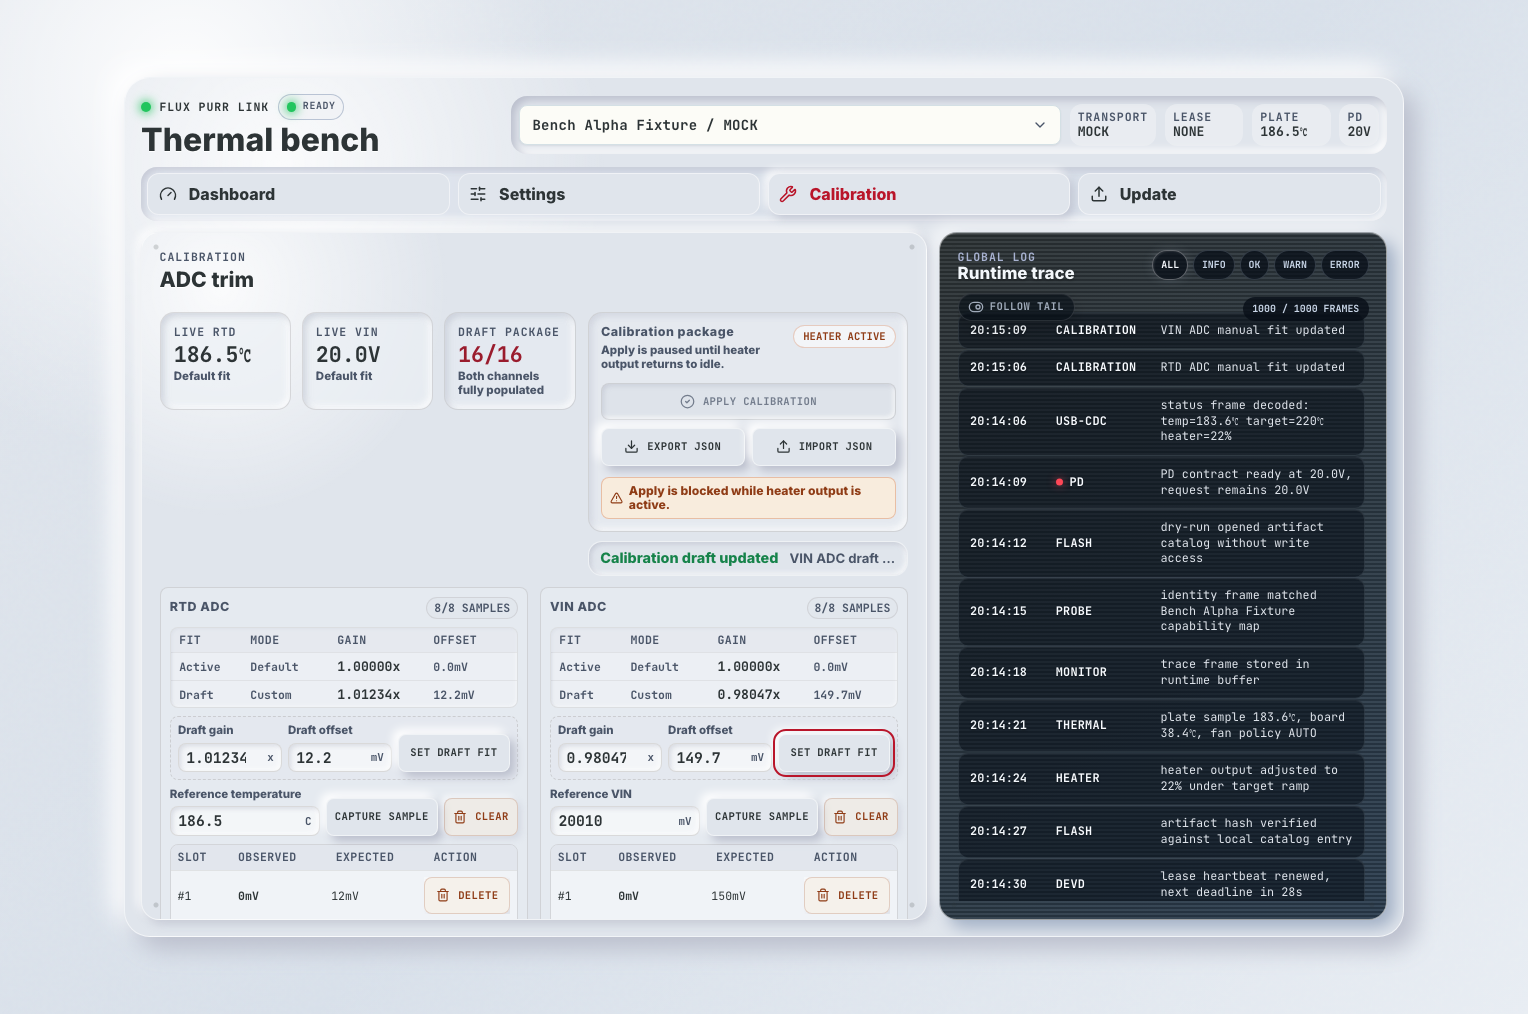
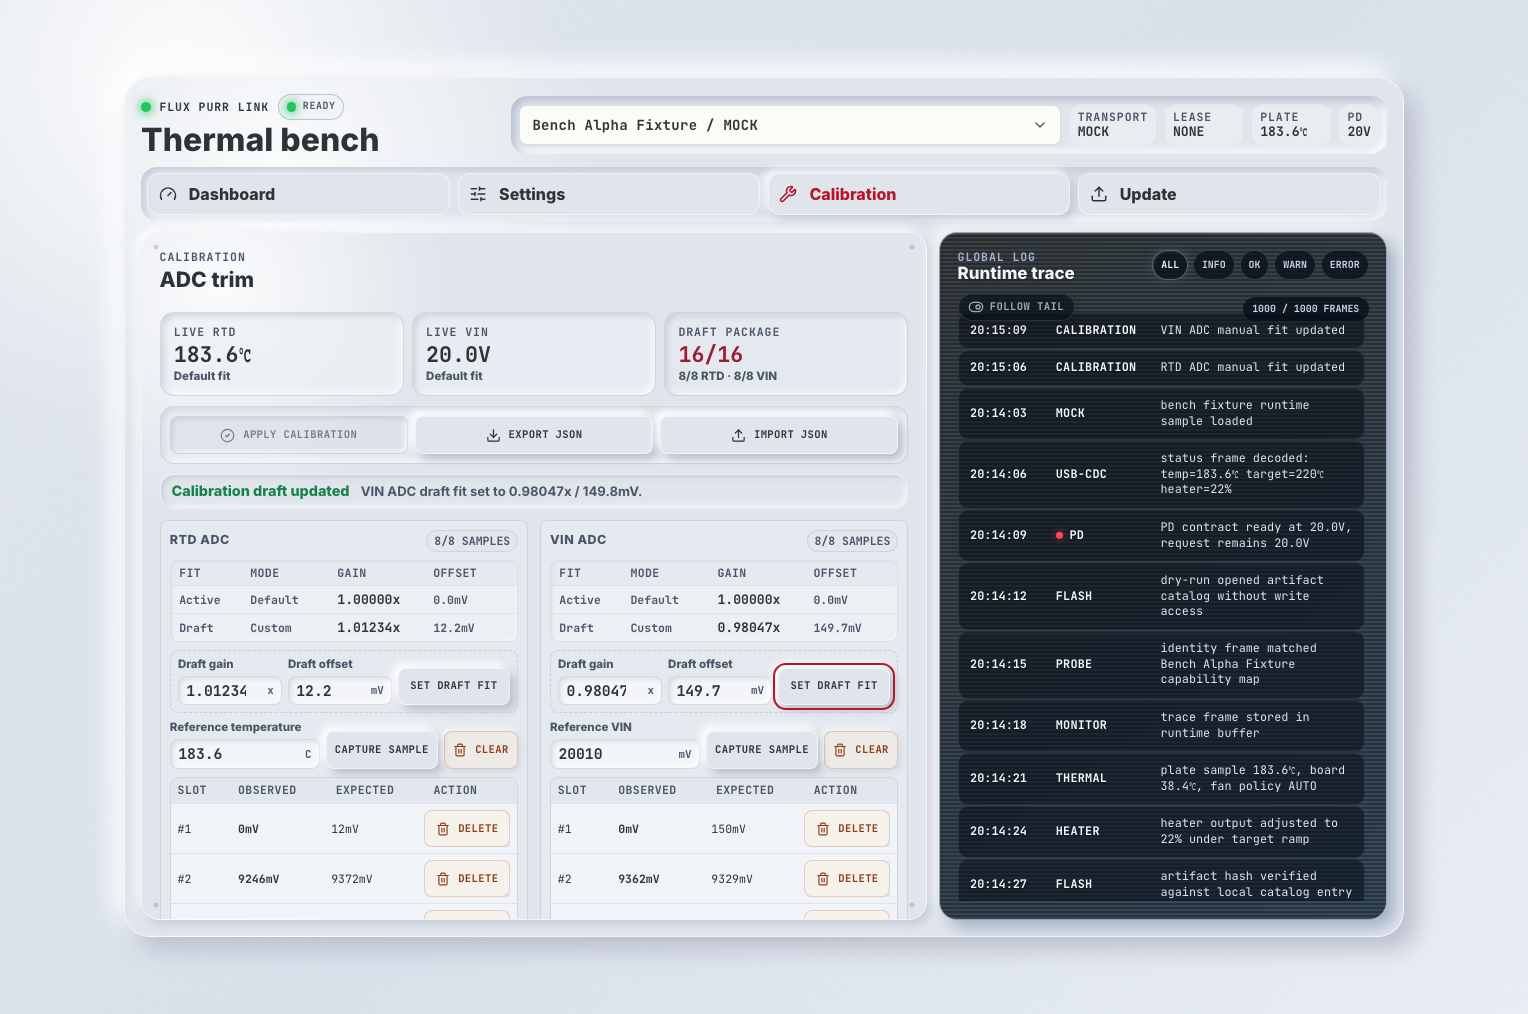
fix: rebalance calibration control layout

diff --git a/web/src/features/control-plane-demo/components/control-plane-demo.tsx b/web/src/features/control-plane-demo/components/control-plane-demo.tsx
@@ -2896,18 +2896,13 @@ function CalibrationView({
   const rtdSampleCount = calibration.draft.rtdAdc.filter(Boolean).length
   const vinSampleCount = calibration.draft.vinAdc.filter(Boolean).length
   const draftSampleCount = rtdSampleCount + vinSampleCount
-  const draftPackageDetail =
-    draftSampleCount === 0
-      ? 'No draft samples loaded'
-      : draftSampleCount === 16
-        ? 'Both channels fully populated'
-        : `${rtdSampleCount}/8 RTD, ${vinSampleCount}/8 VIN`
+  const draftPackageDetail = `${rtdSampleCount}/8 RTD · ${vinSampleCount}/8 VIN`
   return (
     <div className="industrial-view-panel">
       <PanelHeader kicker="Calibration" title="ADC trim" />
       <div className="industrial-calibration-workbench">
         <section className="industrial-calibration-topbar" aria-label="Calibration package">
-          <div className="industrial-calibration-summary">
+          <div className="industrial-calibration-summary industrial-calibration-summary--topbar">
             <CalibrationSummaryCard
               label="Live RTD"
               value={formatTemp(device.currentTempC)}
@@ -2925,66 +2920,41 @@ function CalibrationView({
               tone={draftSampleCount === 0 ? 'muted' : 'accent'}
             />
           </div>
-          <div className="industrial-calibration-control-stack">
-            <div className="industrial-calibration-package">
-              <div className="industrial-calibration-package__header">
-                <div className="industrial-calibration-package__status">
-                  <h3 className="industrial-section-title">Calibration package</h3>
-                  <small>
-                    {applyBlocked
-                      ? 'Apply is paused until heater output returns to idle.'
-                      : 'Apply promotes the current draft package to active calibration.'}
-                  </small>
-                </div>
-                <span
-                  className={`industrial-calibration-package__stamp ${applyBlocked ? 'is-blocked' : 'is-ready'}`}
-                >
-                  {applyBlocked ? 'Heater active' : 'Heater idle'}
-                </span>
-              </div>
-              <div className="industrial-calibration-actions">
-                <button
-                  type="button"
-                  className="industrial-button industrial-button--primary"
-                  disabled={applyBlocked}
-                  onClick={onApply}
-                >
-                  <CheckCircle2 size={15} aria-hidden="true" />
-                  Apply calibration
-                </button>
-                <button
-                  type="button"
-                  className="industrial-button industrial-button--secondary"
-                  onClick={exportCalibration}
-                >
-                  <Download size={15} aria-hidden="true" />
-                  Export JSON
-                </button>
-                <button
-                  type="button"
-                  className="industrial-button industrial-button--secondary"
-                  onClick={() => fileInputRef.current?.click()}
-                >
-                  <Upload size={15} aria-hidden="true" />
-                  Import JSON
-                </button>
-              </div>
-              <input
-                ref={fileInputRef}
-                type="file"
-                accept="application/json,.json"
-                hidden
-                onChange={(event) => void importFile(event.currentTarget.files?.[0] ?? null)}
-              />
-              {applyBlocked ? (
-                <p className="industrial-calibration-warning">
-                  <AlertTriangle size={14} aria-hidden="true" />
-                  <span>Apply is blocked while heater output is active.</span>
-                </p>
-              ) : null}
-            </div>
-            <ActionFeedbackPanel feedback={feedback} compact />
+          <div className="industrial-calibration-command-bar">
+            <button
+              type="button"
+              className="industrial-button industrial-button--primary industrial-calibration-command-bar__apply"
+              disabled={applyBlocked}
+              onClick={onApply}
+            >
+              <CheckCircle2 size={15} aria-hidden="true" />
+              Apply calibration
+            </button>
+            <button
+              type="button"
+              className="industrial-button industrial-button--secondary industrial-calibration-command-bar__action"
+              onClick={exportCalibration}
+            >
+              <Download size={15} aria-hidden="true" />
+              Export JSON
+            </button>
+            <button
+              type="button"
+              className="industrial-button industrial-button--secondary industrial-calibration-command-bar__action"
+              onClick={() => fileInputRef.current?.click()}
+            >
+              <Upload size={15} aria-hidden="true" />
+              Import JSON
+            </button>
+            <input
+              ref={fileInputRef}
+              type="file"
+              accept="application/json,.json"
+              hidden
+              onChange={(event) => void importFile(event.currentTarget.files?.[0] ?? null)}
+            />
           </div>
+          <ActionFeedbackPanel feedback={feedback} compact />
         </section>
         <div className="industrial-calibration-grid">
           <CalibrationChannelPanel

diff --git a/web/src/index.css b/web/src/index.css
@@ -4054,15 +4054,19 @@
 
   .industrial-calibration-topbar {
     display: grid;
-    gap: 0.8rem;
+    gap: 0.62rem;
     align-items: start;
   }
 
   .industrial-calibration-summary {
     display: grid;
     grid-template-columns: repeat(3, minmax(0, 1fr));
-    gap: 0.65rem;
+    gap: 0.52rem;
     min-width: 0;
+  }
+
+  .industrial-calibration-summary--topbar {
+    grid-template-columns: repeat(3, minmax(0, 1fr));
   }
 
   .industrial-calibration-summary-card {
@@ -4125,15 +4129,11 @@
     color: rgba(74, 85, 104, 0.82);
   }
 
-  .industrial-calibration-control-stack {
+  .industrial-calibration-command-bar {
     display: grid;
-    gap: 0.55rem;
-    min-width: 0;
-  }
-
-  .industrial-calibration-package {
-    display: grid;
-    gap: 0.72rem;
+    grid-template-columns: repeat(3, minmax(0, 1fr));
+    gap: 0.44rem;
+    align-items: stretch;
     min-width: 0;
     border: 1px solid rgba(80, 67, 58, 0.14);
     border-radius: 14px;
@@ -4141,56 +4141,11 @@
     box-shadow:
       inset 3px 3px 6px rgba(186, 190, 204, 0.48),
       inset -3px -3px 6px rgba(255, 255, 255, 0.76);
-    padding: 0.72rem;
+    padding: 0.56rem;
   }
 
-  .industrial-calibration-package__header {
-    display: flex;
-    align-items: start;
-    justify-content: space-between;
-    gap: 0.75rem;
-    min-width: 0;
-  }
-
-  .industrial-calibration-package__status {
-    display: grid;
-    gap: 0.24rem;
-    min-width: 0;
-  }
-
-  .industrial-calibration-package__stamp {
-    flex: 0 0 auto;
-    align-self: start;
-    border: 1px solid rgba(80, 67, 58, 0.16);
-    border-radius: 999px;
-    background: rgba(248, 249, 251, 0.74);
-    padding: 0.34rem 0.58rem;
-    color: var(--industrial-muted-text);
-    font-family: "JetBrains Mono", monospace;
-    font-size: 0.66rem;
-    font-weight: 850;
-    line-height: 1;
-    text-transform: uppercase;
-  }
-
-  .industrial-calibration-package__stamp.is-ready {
-    border-color: rgba(51, 121, 84, 0.24);
-    color: #1f6b4a;
-  }
-
-  .industrial-calibration-package__stamp.is-blocked {
-    border-color: rgba(199, 93, 44, 0.28);
-    color: #8f3c16;
-  }
-
-  .industrial-calibration-actions {
-    display: grid;
-    grid-template-columns: repeat(2, minmax(0, 1fr));
-    gap: 0.48rem;
-    min-width: 0;
-  }
-
-  .industrial-calibration-actions .industrial-button,
+  .industrial-calibration-command-bar__apply,
+  .industrial-calibration-command-bar__action,
   .industrial-calibration-capture-row .industrial-button,
   .industrial-calibration-manual-fit .industrial-button,
   .industrial-calibration-samples .industrial-button {
@@ -4201,15 +4156,12 @@
     letter-spacing: 0.035em;
   }
 
-  .industrial-calibration-actions .industrial-button {
+  .industrial-calibration-command-bar__apply,
+  .industrial-calibration-command-bar__action {
     width: 100%;
   }
 
-  .industrial-calibration-actions .industrial-button:first-child {
-    grid-column: 1 / -1;
-  }
-
-  .industrial-calibration-actions .industrial-button:disabled {
+  .industrial-calibration-command-bar__apply:disabled {
     border-color: rgba(80, 67, 58, 0.12);
     background: rgba(219, 224, 232, 0.72);
     color: rgba(74, 85, 104, 0.72);
@@ -4542,8 +4494,8 @@
   }
 
   @media (min-width: 960px) {
-    .industrial-calibration-topbar {
-      grid-template-columns: minmax(0, 1.3fr) minmax(20rem, 0.92fr);
+    .industrial-calibration-topbar > .industrial-action-feedback--compact {
+      grid-column: 1 / -1;
     }
 
     .industrial-calibration-grid {
@@ -4553,17 +4505,12 @@
 
   @media (max-width: 720px) {
     .industrial-calibration-summary,
-    .industrial-calibration-package,
-    .industrial-calibration-actions,
+    .industrial-calibration-summary--topbar,
+    .industrial-calibration-command-bar,
     .industrial-calibration-manual-fit,
     .industrial-calibration-capture-row,
     .industrial-calibration-samples tr {
       grid-template-columns: minmax(0, 1fr);
-    }
-
-    .industrial-calibration-package__header {
-      flex-direction: column;
-      align-items: start;
     }
 
     .industrial-calibration-samples {